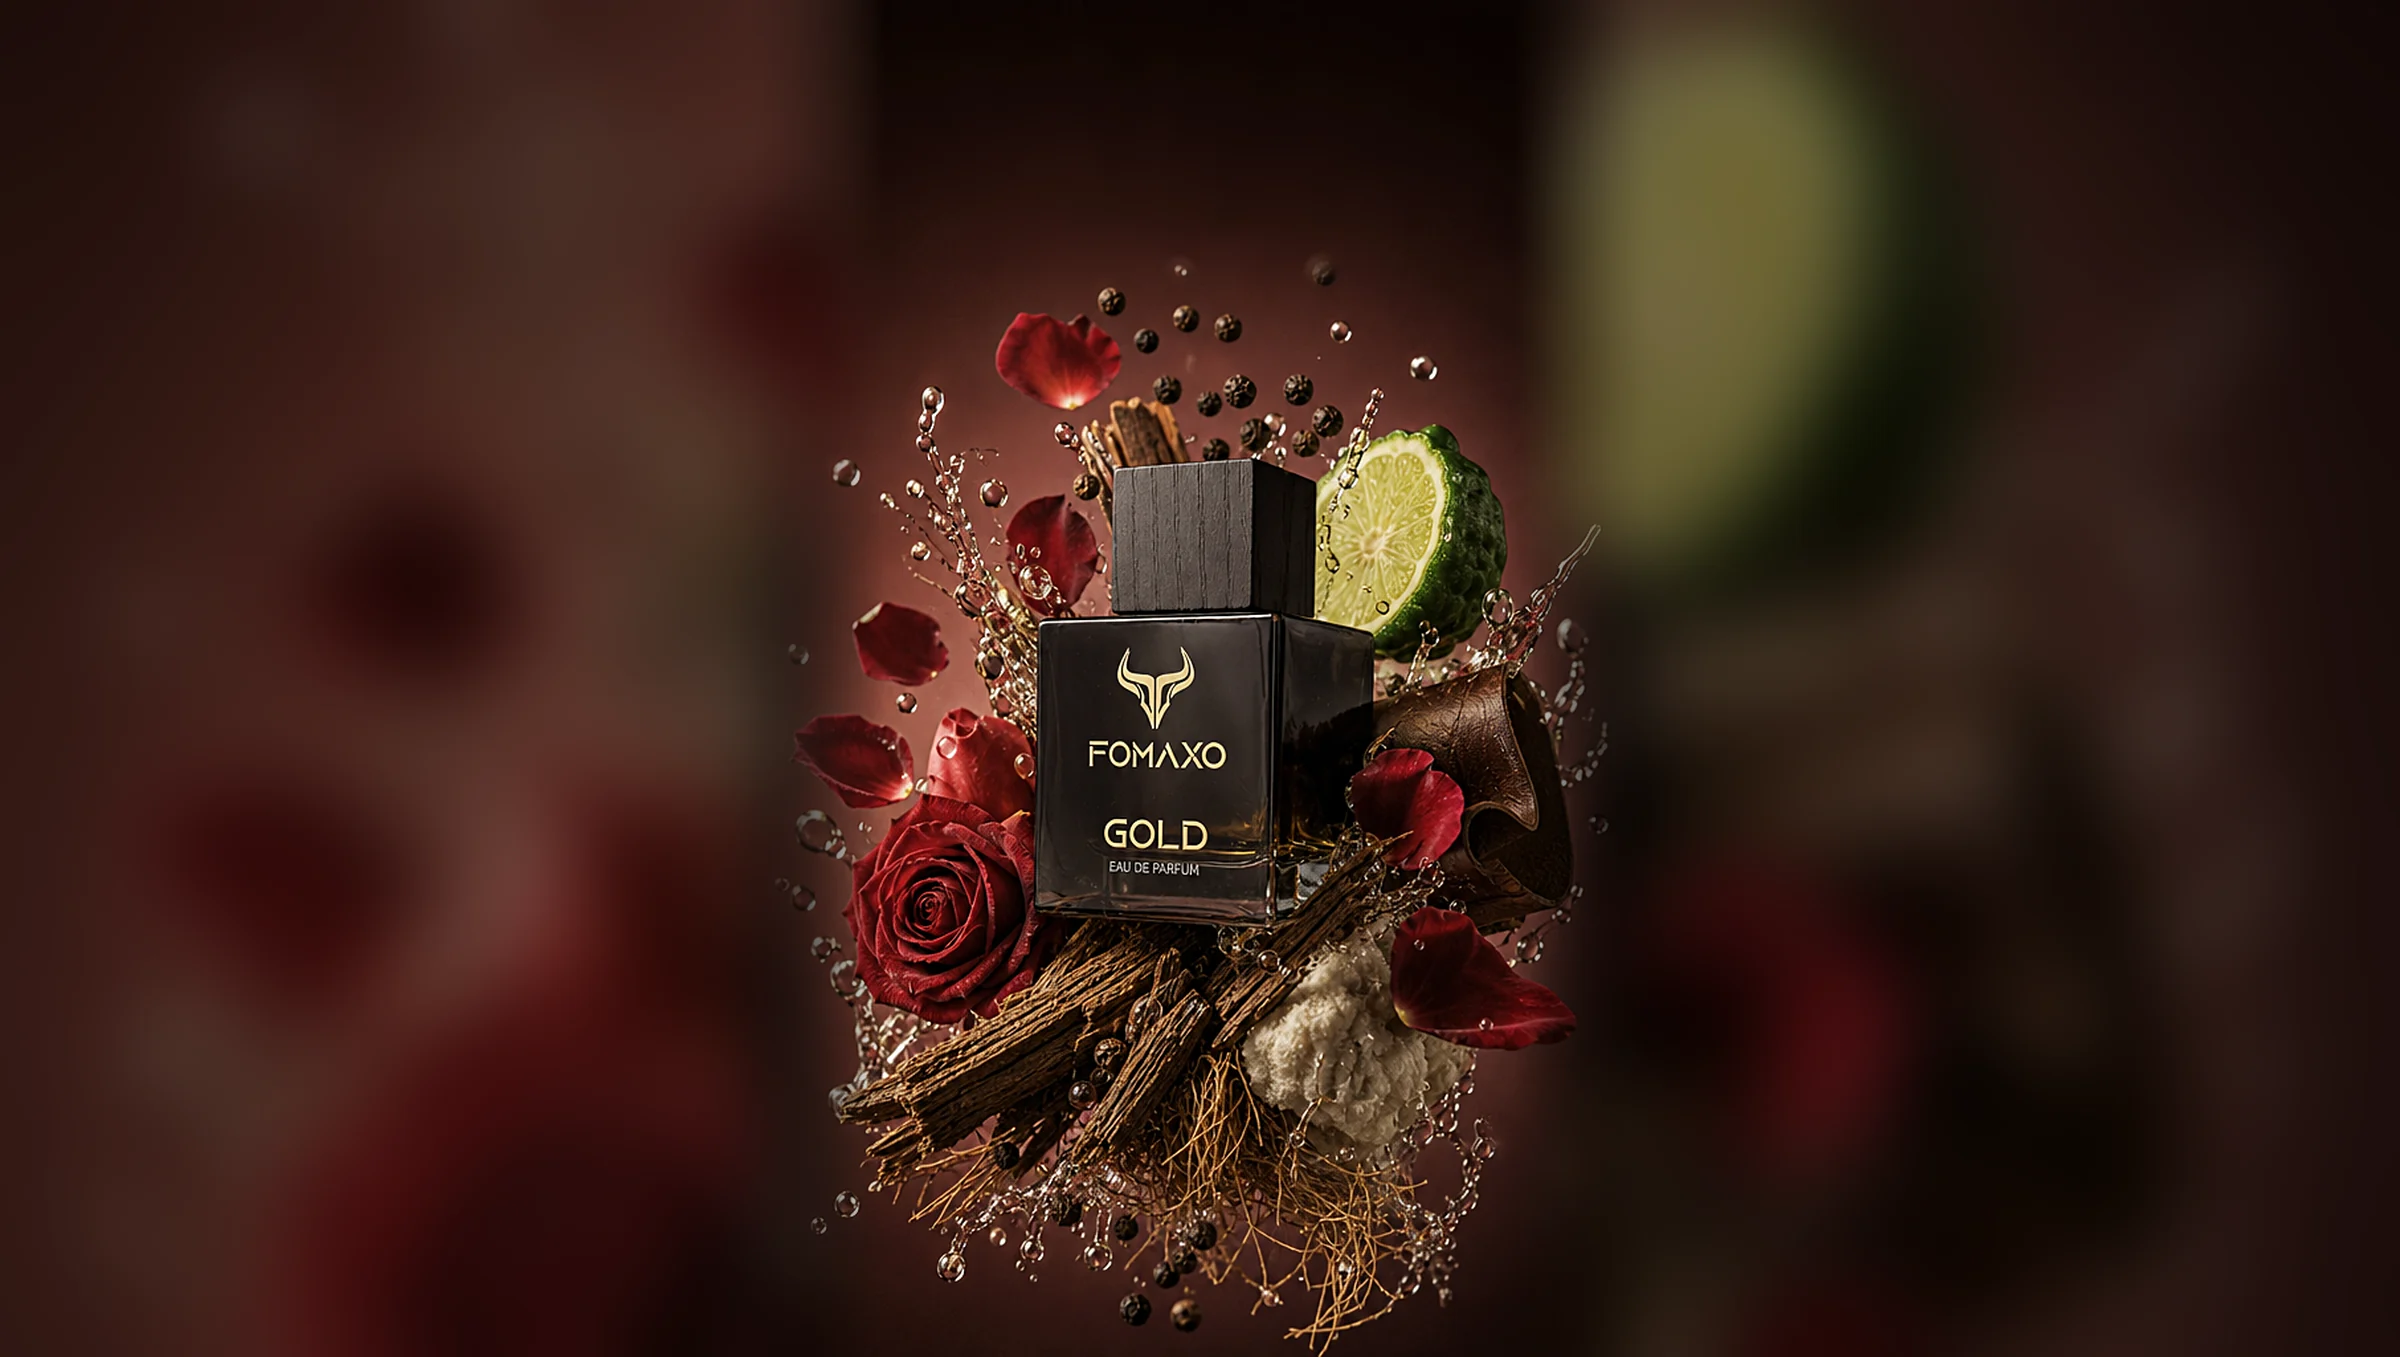
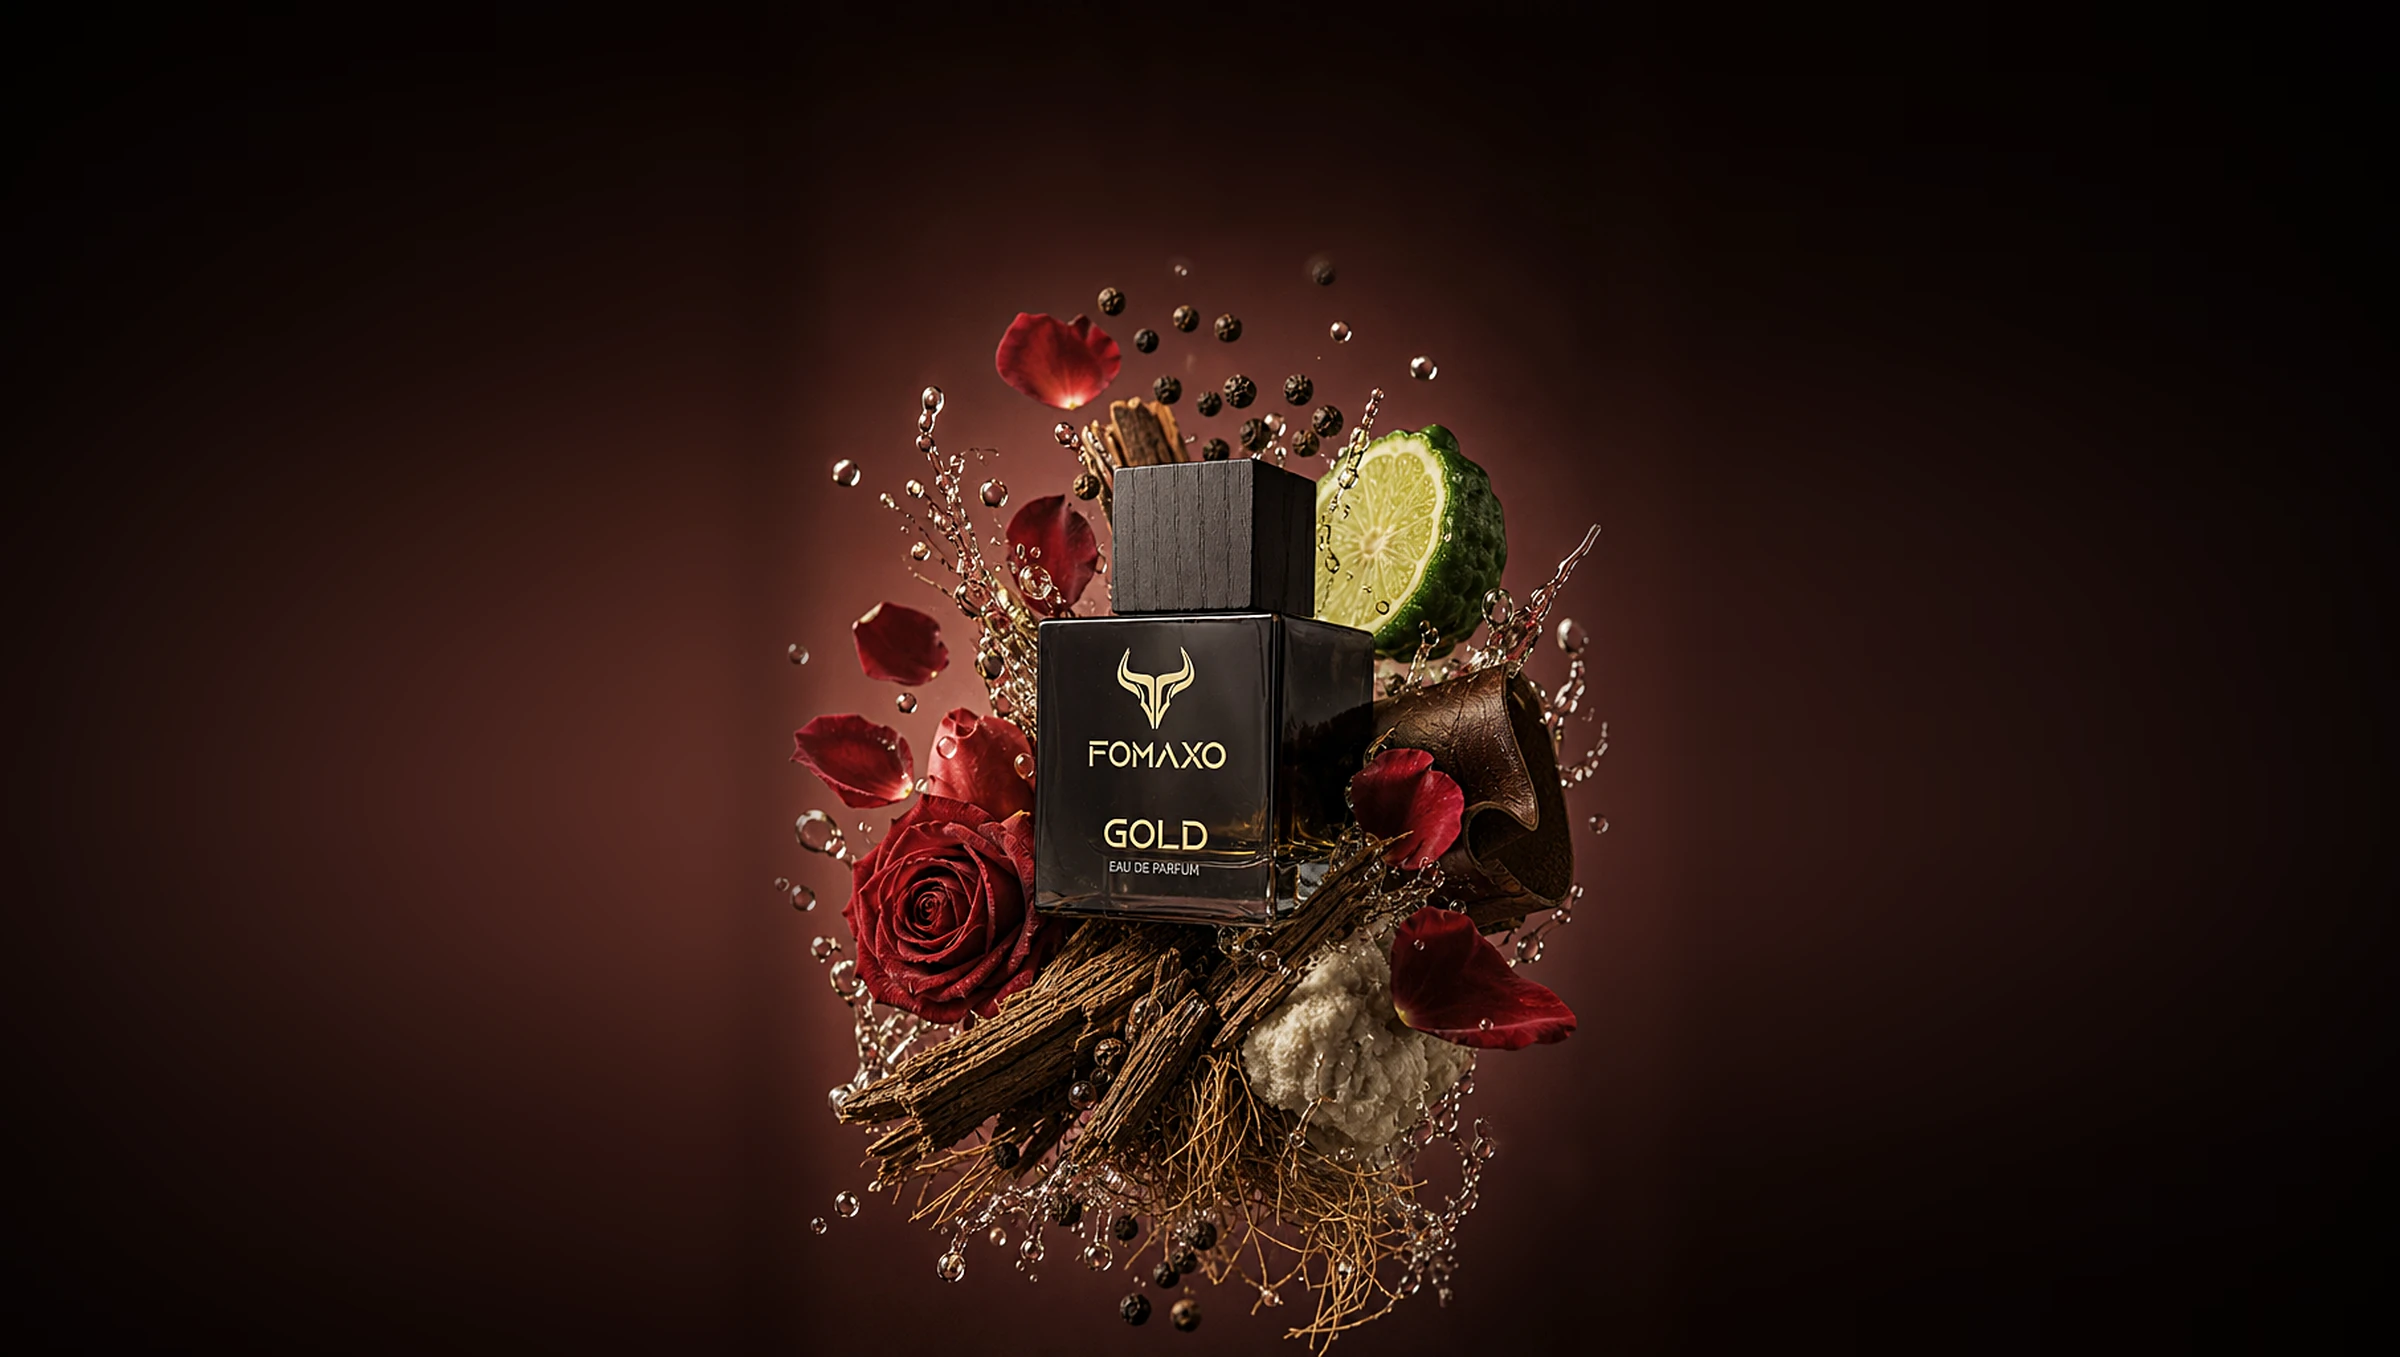
Remake the Gold photos from the original upload
Sharper main photo, and a cleaner home banner whose sides continue the
photo's own dark red backdrop instead of a blurred copy. Image cache v=5.

Claude-Session: https://claude.ai/code/session_01HL5UtiY392K1t174tHiNwu

diff --git a/index.html b/index.html
@@ -2380,7 +2380,7 @@ const S = window.STORE;
 const $ = (s, r=document) => r.querySelector(s);
 const $$ = (s, r=document) => [...r.querySelectorAll(s)];
 const app = $('#app');
-const IMG = k => /^up\//.test(k) ? 'api/live.php?img=' + encodeURIComponent(k.slice(3)) : `assets/img/${k}.webp?v=4`; /* up/… = photo uploaded on the admin page. Bump v when images are replaced so caches refetch */
+const IMG = k => /^up\//.test(k) ? 'api/live.php?img=' + encodeURIComponent(k.slice(3)) : `assets/img/${k}.webp?v=5`; /* up/… = photo uploaded on the admin page. Bump v when images are replaced so caches refetch */
 /* changes made on the admin page (fomaxo.in/admin): hidden products, new prices, added products, stock */
 const LIVE = window.STORE_LIVE || {};
 (function(){
